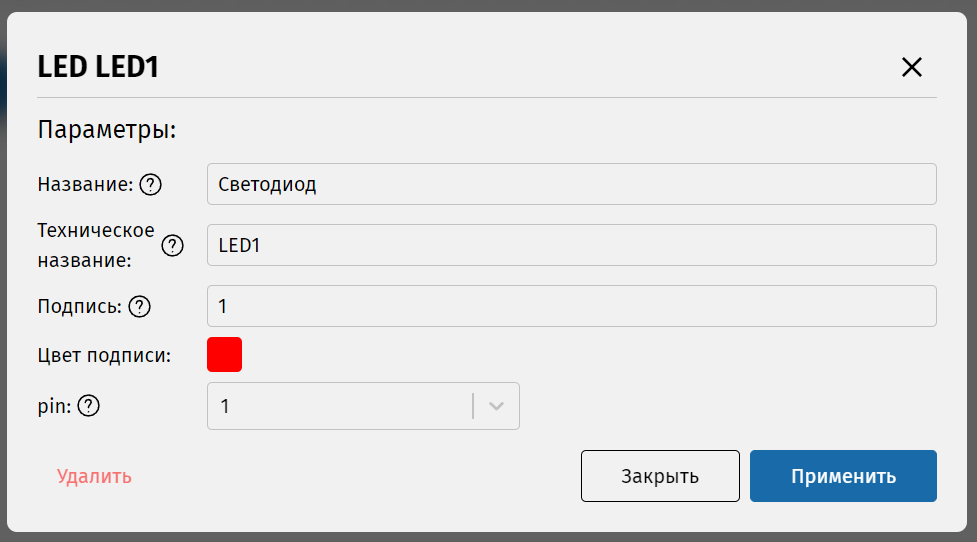
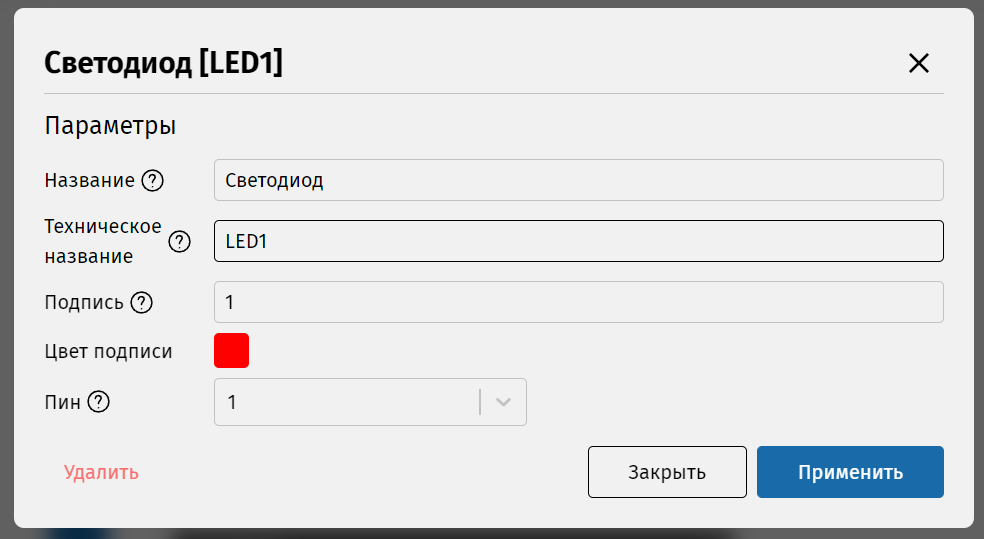
обновление 07 Добавление компонентов

diff --git a/docs/02 Быстрый старт/07 Добавление компонентов.html b/docs/02 Быстрый старт/07 Добавление компонентов.html
@@ -14,12 +14,14 @@
   <body class="mx-3">
     <span class="badge text-wrap text-bg-primary mt-3">00. Быстрый старт</span>
     <h1 class="display-6 mt-3">07. Добавление компонентов</h1>
+
     <p class="mt-3">
       Для того, чтобы машина состояний чем-то управляла, нужно обозначить, с чем
       она будет работать. А именно, добавить компоненты. Можно привести
       аналогию: схема – это сценарий пьесы, а компоненты – это актёры, которые
       отыгрывают в пьесе свои роли. Без актёров нет выступления.
     </p>
+
     <p class="mt-3">
       <b>Добавим компонент</b>. На боковой панели выберите раздел «Диаграмма»
       <img width="20px" src="../../img/icons/components.svg" />, далее в
@@ -30,34 +32,94 @@
     <a class="mt-1"
       ><img src="../../img/quick-start/empty-components-list.png" width="50%"
     /></a>
+
     <p class="mt-3">
       Появится окно выбора компонента. Рассмотрите список компонентов и прочтите
-      их описания. Мы будем управлять светодиодом, поэтому нам точно понадобится
-      компонент <i>LED</i>. Выберите его и нажмите «Добавить».
+      их описания.
     </p>
-    <a class="mt-1"
-      ><img src="../../img/quick-start/select-component.png" width="100%"
-    /></a>
+
+    <details>
+      <summary><b>Кибермишка</b></summary>
+
+      <p class="mt-3">
+        Мы будем управлять цветом глаз, поэтому нам нам пригодится компонент
+        <i>Глаза-палитра</i>. Выберите его и нажмите «Добавить».
+      </p>
+
+      <a class="mt-1"
+        ><img src="../../img/quick-start/blg-components.png" width="100%"
+      /></a>
+    </details>
+
+    <details>
+      <summary><b>МС-ТЮК</b></summary>
+      <p class="mt-3">
+        Мы будем управлять светодиодом, поэтому нам точно понадобится компонент
+        <i>Светодиод</i>. Выберите его и нажмите «Добавить».
+      </p>
+
+      <a class="mt-1"
+        ><img src="../../img/quick-start/ms-components.png" width="100%"
+      /></a>
+    </details>
+
     <p class="mt-3">
-      Появится окно настройки компонента. Здесь нужно указать его техническое
-      название (как имя переменной в программе) и указать подпись, содержащую до
-      трёх символов (букв и цифр). Подпись нужна для того, чтобы отличать
-      компонент на схеме. Кроме того, для светодиода доступен параметр pin.
-      Чтобы узнать, зачем он нужен, можно навести курсор на знак вопроса рядом с
-      названием параметра. Выберите значение pin на своё усмотрение и нажмите
-      «Применить».
+      После добавления компонента появится его окно настройки. Здесь можно
+      указать его название (которое будет отображаться в интерфейсе IDE),
+      техническое название (как имя переменной в программе), указать подпись,
+      содержащую до трёх символов (букв и цифр) и выбрать её цвет. Подпись нужна
+      для того, чтобы отличать компонент на холсте.
     </p>
-    <a class="mt-1"
-      ><img src="../../img/quick-start/create-led.png" width="100%"
-    /></a>
+
+    <details>
+      <summary><b>Кибермишка</b></summary>
+
+      <p class="mt-3">
+        Мы будем управлять цветом глаз Кибермишки, поэтому нам нам пригодится
+        компонент
+        <i>Глаза-палитра</i>. Выберите его и нажмите «Добавить».
+      </p>
+
+      <a class="mt-1"
+        ><img src="../../img/quick-start/create-eye-pallete.png" width="100%"
+      /></a>
+    </details>
+
+    <details>
+      <summary><b>МС-ТЮК</b></summary>
+
+      <p class="mt-3">
+        Для светодиода доступен параметр «Пин». Чтобы узнать, зачем он нужен,
+        можно навести курсор на знак вопроса рядом с названием параметра.
+        Выберите пин на своё усмотрение и нажмите «Применить».
+      </p>
+
+      <a class="mt-1"
+        ><img src="../../img/quick-start/create-led.png" width="100%"
+      /></a>
+    </details>
+
     <p class="mt-3">
       Компонент появится в списке в боковой панели, и теперь его можно
-      использовать на схеме. Но кроме светодиода нам нужен компонент, который
-      позволил бы отсчитывать время. Добавьте его на схему таким же образом. Это
-      компонент <i>Timer</i>.
+      использовать на схеме. Но кроме него нам нужен компонент, который позволил
+      бы отсчитывать время. Добавьте его на схему таким же образом. Это
+      компонент <i>Таймер</i>.
     </p>
-    <a class="mt-1"
-      ><img src="../../img/quick-start/component-list.png" width="50%"
-    /></a>
+
+    <details>
+      <summary><b>Кибермишка</b></summary>
+
+      <a class="mt-1"
+        ><img src="../../img/quick-start/component-list-blg.png" width="50%"
+      /></a>
+    </details>
+
+    <details>
+      <summary><b>МС-ТЮК</b></summary>
+
+      <a class="mt-1"
+        ><img src="../../img/quick-start/component-list-ms.png" width="50%"
+      /></a>
+    </details>
   </body>
 </html>
